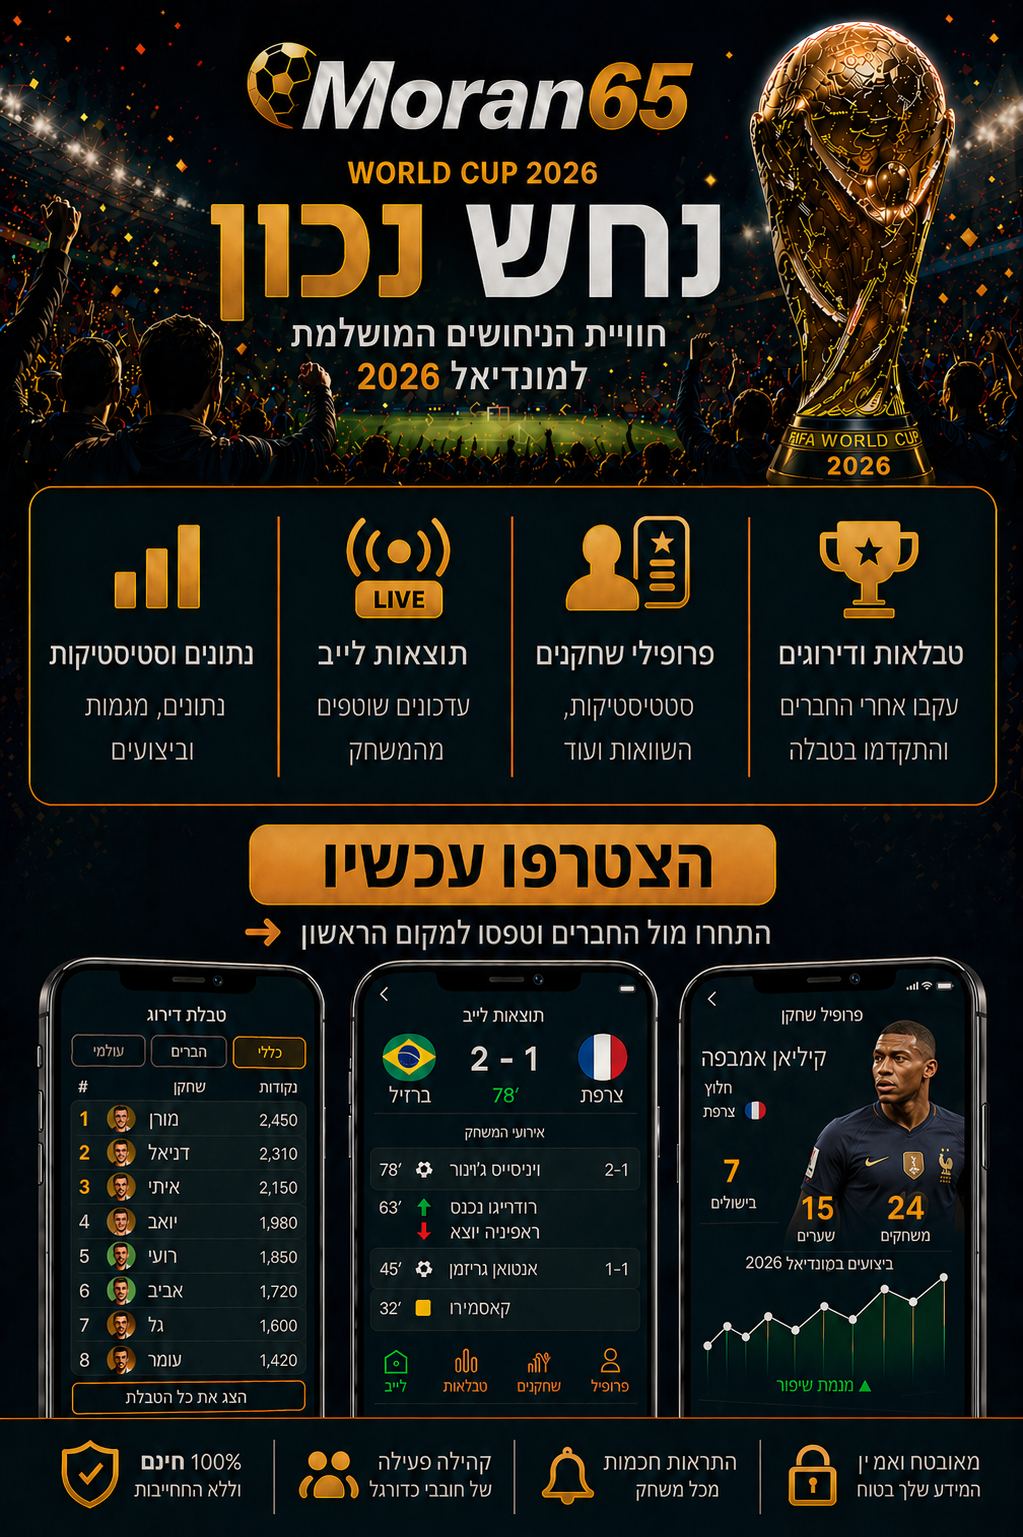
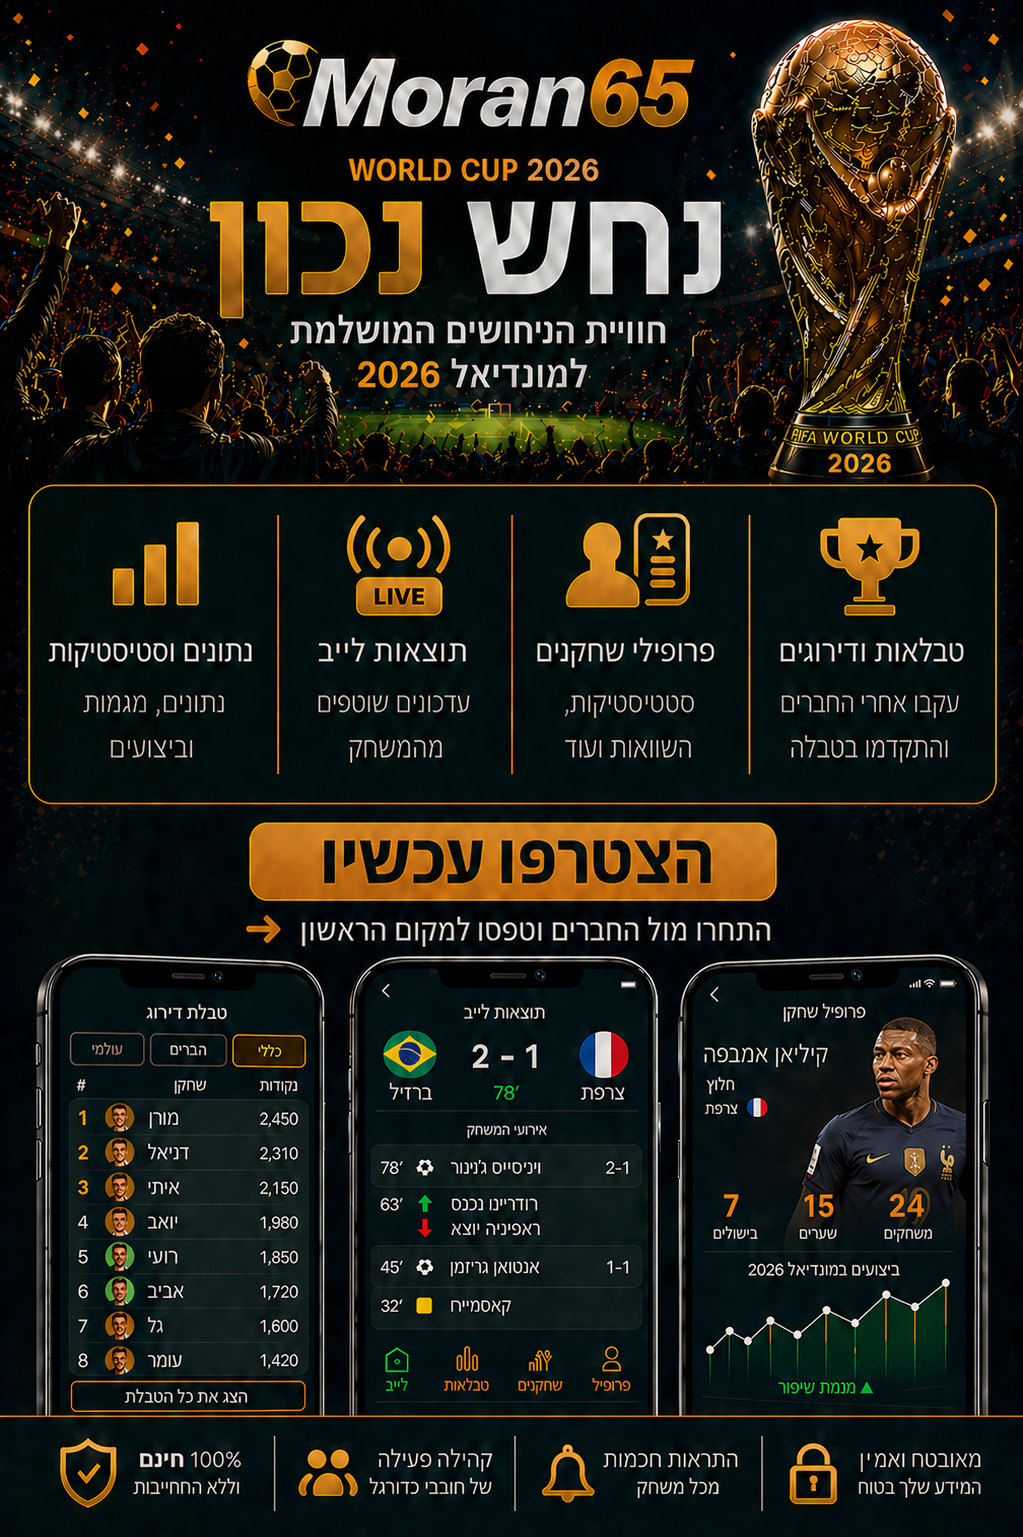
chore: update Moran65 landing image

diff --git a/cloudflare/coming-soon-worker.js b/cloudflare/coming-soon-worker.js
@@ -3,7 +3,7 @@ const SUPPORT_EMAIL = "support@moran65.com";
 const ADMIN_EMAIL = "admin@moran65.com";
 const LOGO_URL = "https://res.cloudinary.com/dytvwwlwc/image/upload/v1777140874/Moran65_Logo_yf7tbm.png";
 const LANDING_IMAGE_URL =
-  "https://res.cloudinary.com/dytvwwlwc/image/upload/v1777143927/Moran65_qluszk.png";
+  "https://res.cloudinary.com/dytvwwlwc/image/upload/v1777145663/Moran65_la8fed.png";
 
 const HTML = `<!doctype html>
 <html lang="he" dir="rtl">

diff --git a/HANDOFF_2026-04-22.md b/HANDOFF_2026-04-22.md
@@ -100,4 +100,4 @@ The latest local browser pass covered the signup/onboarding/dashboard path:
 - `/mfa/setup` now redirects anyone who did not explicitly choose Authenticator during signup, even if a stale unverified TOTP factor exists, so the enrollment screen cannot be opened casually after registration
 - Dev Tools now treats halftime and penalties as minute-less phases, removes the fake "regular" phase, enforces phase/minute ranges, keeps status/phase/minute/ET/penalties/save controls visible at the start of the RTL table, and blocks extra time/penalties for group-stage matches in both UI and API validation
 - PR #20 closed the remaining MFA server-side gap: `/game` pages plus league/prediction server actions call a shared `requireServerMfa` guard before protected admin reads/writes, and users with only `aal1` are redirected to `/mfa/challenge`.
-- Moran65 branding now uses the uploaded logo for favicon/app/email identity and the uploaded landing poster for both localhost home and the public Cloudflare coming-soon page.
+- Moran65 branding now uses the uploaded logo for favicon/app/email identity and the updated landing poster for both localhost home and the public Cloudflare coming-soon page.

diff --git a/HANDOFF_2026-04-21.md b/HANDOFF_2026-04-21.md
@@ -76,7 +76,7 @@ Additional follow-up landed later the same day:
 - `/mfa/setup` is now blocked unless the signup flow explicitly stored `user_metadata.mfa_setup_requested`; a stale unverified TOTP factor alone no longer lets a user add Authenticator later
 - Dev Tools no longer has a fake "regular" phase, locks the minute input for halftime and penalties, enforces phase/minute ranges, shows ET only in knockout, and enables penalties only for knockout draws
 - PR #20 was resolved by moving MFA assurance into a reusable server guard: `/game` routes and the league/prediction server actions now require `aal2` before admin reads or writes, and AAL1 sessions are sent to `/mfa/challenge` instead of a neutral route.
-- Moran65 brand assets were refreshed: the new logo is used for favicon/app icon/email branding, and the new landing poster is used on the local home page and Cloudflare public coming-soon page.
+- Moran65 brand assets were refreshed: the new logo is used for favicon/app icon/email branding, and the updated landing poster is used on the local home page and Cloudflare public coming-soon page.
 
 ## Useful files
 
